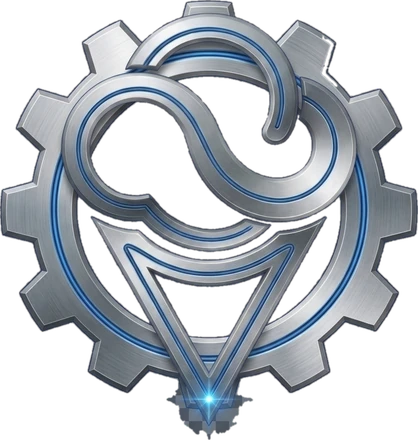
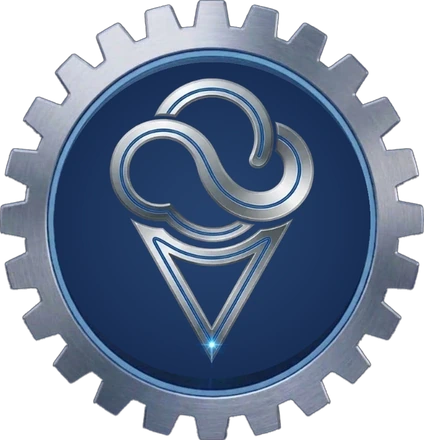
Admin mark in a gear, metal video button, cleaner HTML tooltip
- Admin: the mark in a steel gear on a navy disc (the crisp mark of the site inside), in the tab
  icon, login, top bar and search
- Video play button: metal like the other round buttons, navy on hover
- HTML tooltip lists only what the toolbar does not have (bold, italic, underline are buttons)

Claude-Session: https://claude.ai/code/session_01H37WiEEBd5iiXzDLSKqoKB

diff --git a/frontend/components/admin/rich-text-editor.tsx b/frontend/components/admin/rich-text-editor.tsx
@@ -85,14 +85,15 @@ const StyledText = Mark.create({
 const htmlHelp = (
   <div className="py-1 text-[13px] leading-snug">
     <p className="mb-1.5 font-extrabold">Що можна змінити в HTML</p>
+    <p className="mb-1.5 opacity-80">Те, чого немає на панелі (жирний, курсив і підкреслення — кнопками):</p>
     <ul className="mb-1.5 list-disc pl-4">
       <li>розмір тексту — font-size: 20px</li>
       <li>колір — color: #0a1b42</li>
       <li>фон тексту — background-color: #fff3c4</li>
-      <li>жирність, курсив — font-weight: 700; font-style: italic</li>
       <li>вирівнювання — text-align: center</li>
       <li>міжрядковий інтервал — line-height: 1.8</li>
-      <li>відстань між літерами, великі літери, підкреслення</li>
+      <li>відстань між літерами — letter-spacing: 1px</li>
+      <li>ВЕЛИКІ ЛІТЕРИ — text-transform: uppercase</li>
     </ul>
     <p className="mb-1">
       Приклад: &lt;span style=&quot;font-size:22px;color:#0a1b42&quot;&gt;текст&lt;/span&gt;
@@ -209,8 +210,8 @@ export function RichTextEditor({
             className="block min-h-64 w-full resize-y bg-transparent px-5 py-4 font-mono text-[13px] leading-[1.65] text-ink outline-none"
           />
           <p className="border-t border-ink/10 px-5 py-2.5 text-xs leading-normal text-ink-soft">
-            Можна змінювати вигляд тексту через style=&quot;…&quot;: розмір (font-size), колір (color), фон (background-color), жирність
-            (font-weight), курсив, вирівнювання (text-align), міжрядковий інтервал (line-height), відстань між літерами. Наприклад:{" "}
+            Можна змінювати вигляд тексту через style=&quot;…&quot;: розмір (font-size), колір (color), фон (background-color),
+            вирівнювання (text-align), міжрядковий інтервал (line-height), відстань між літерами. Наприклад:{" "}
             <code className="rounded bg-white px-1">&lt;span style=&quot;font-size:22px;color:#0a1b42&quot;&gt;текст&lt;/span&gt;</code>. Скрипти й
             інші небезпечні речі сайт прибирає. Натисніть «HTML» ще раз, щоб повернутись до звичайного вигляду.
           </p>

diff --git a/frontend/components/category-video.tsx b/frontend/components/category-video.tsx
@@ -50,8 +50,9 @@ export function CategoryVideo({
               onError={(event) => (event.currentTarget.style.visibility = "hidden")}
               className="size-full object-cover opacity-85 transition-opacity duration-300 group-hover:opacity-100"
             />
-            <span data-reveal-pulse className="absolute top-1/2 left-1/2 flex size-22 -translate-1/2 items-center justify-center rounded-full bg-[image:var(--grad-btn)] shadow-[0_14px_34px_rgba(0,0,0,0.35)] transition-transform duration-300 group-hover:scale-108 max-[820px]:size-16">
-              <svg aria-hidden="true" viewBox="0 0 24 24" fill="#fff" className="ml-1 size-8.5 max-[820px]:size-6.5">
+            {/* Metal like the other round buttons (arrows, zoom, "Up"), navy when the video is hovered (4.11) */}
+            <span data-reveal-pulse className="absolute top-1/2 left-1/2 flex size-22 -translate-1/2 items-center justify-center rounded-full border-2 border-white/90 bg-[image:var(--metal)] text-ink shadow-[inset_0_-4px_8px_rgb(var(--ink-rgb)/0.18),0_14px_34px_rgba(0,0,0,0.35)] transition-all duration-300 group-hover:scale-108 group-hover:bg-[image:var(--grad-btn)] group-hover:text-white max-[820px]:size-16">
+              <svg aria-hidden="true" viewBox="0 0 24 24" fill="currentColor" className="ml-1 size-8.5 max-[820px]:size-6.5">
                 <path d="M8 5.5v13l11-6.5z" />
               </svg>
             </span>

diff --git a/frontend/components/brand-logo.tsx b/frontend/components/brand-logo.tsx
@@ -94,9 +94,9 @@ export function AnimatedBrandMark({ className = "" }: { className?: string }) {
   );
 }
 
-/** The mark of the admin panel (tab icon, login, top bar, search). For now the same mark as the
- *  site (30.10, Oleh: the mark in a gear comes later, as a clean PNG — then only the file here
- *  changes, public/images/admin-mark.webp is kept for it). */
+/** The mark of the admin panel (4.11, Oleh): the mark in a steel gear on a navy disc, so the
+ *  admin panel is told from the site at a glance (tab icon, login, top bar, search). */
 export function AdminMark({ className = "" }: { className?: string }) {
-  return <BrandMark className={className} />;
+  // eslint-disable-next-line @next/next/no-img-element -- small logo, same file everywhere
+  return <img src="/images/admin-mark.webp" alt="" aria-hidden="true" width={424} height={440} className={className} />;
 }
